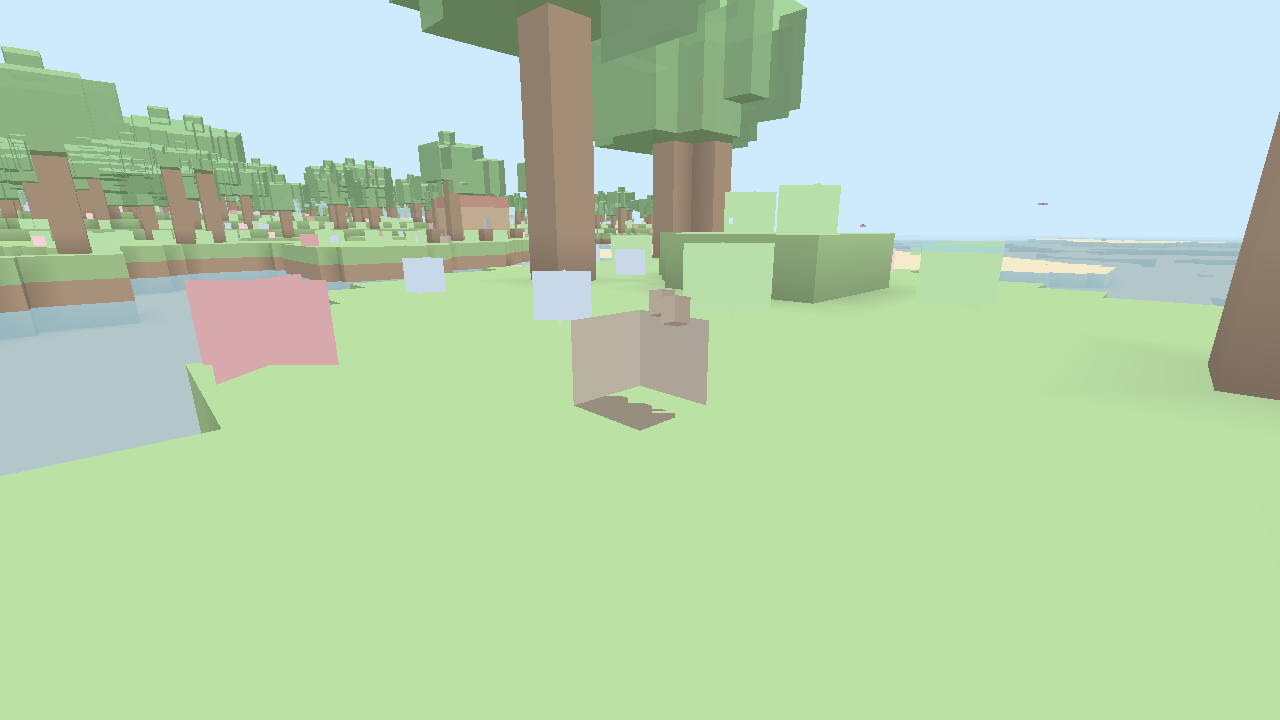
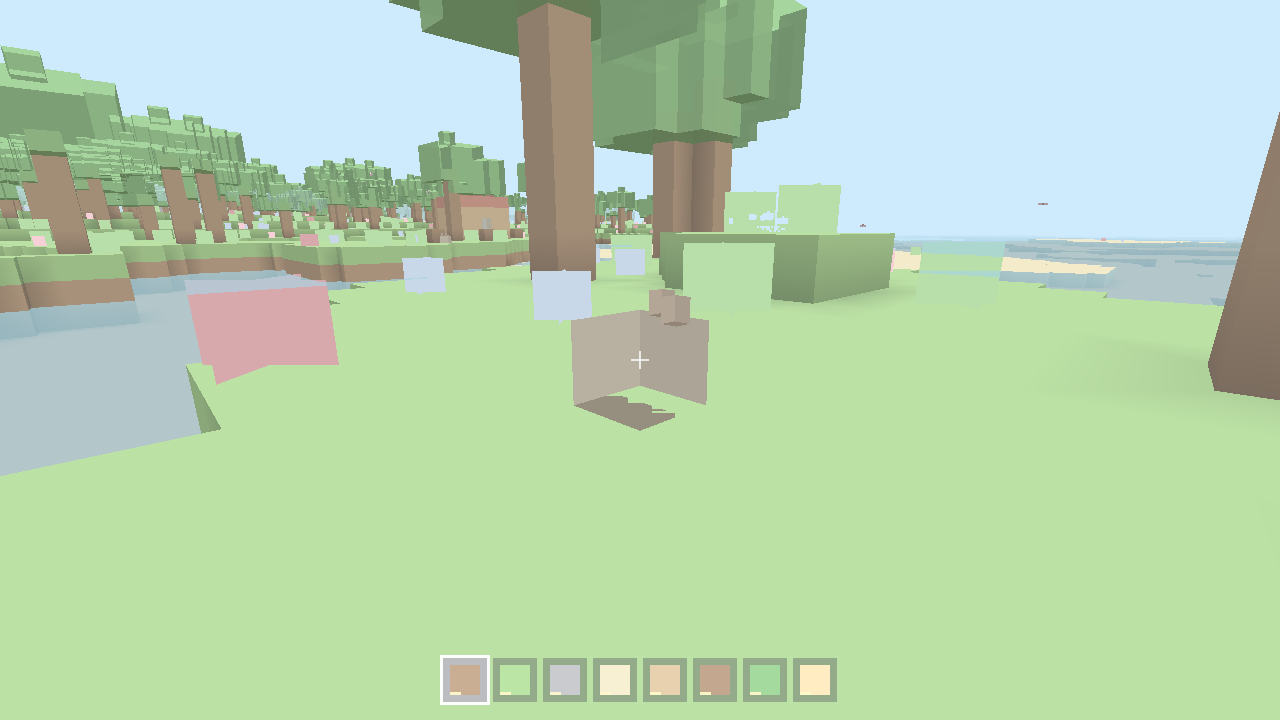
Stage 10: HUD overlay (crosshair + hotbar)
- New flat 2D UI pass: an alpha-blended, depth-independent pipeline drawing
  coloured quads in NDC, rendered on top of the world in both the windowed game
  and the headless screenshots.
- HUD shows a centred crosshair and a bottom hotbar of 8 slots with each block's
  colour swatch, a white frame on the selected slot, and a count pip bar.
- Window loop and screenshot tool rebuild the HUD each frame from the live
  inventory; cat starts screenshots with a few of each block.

UI geometry test (quad triangulation + NDC bounds) under the capture feature.

diff --git a/crates/game/src/render/scene.rs b/crates/game/src/render/scene.rs
@@ -58,6 +58,8 @@ pub struct GpuScene {
     chunks: AHashMap<ChunkPos, GpuChunk>,
     /// Dynamic geometry for ambient critters, rebuilt each frame.
     entities: Option<GpuLayer>,
+    ui_pipeline: wgpu::RenderPipeline,
+    ui_buffer: Option<(wgpu::Buffer, u32)>,
     pub render_distance: f32,
 }
 
@@ -103,6 +105,7 @@ impl GpuScene {
         });
         let opaque_pipeline = make_pipeline(&device, &layout, &shader, format, false);
         let transparent_pipeline = make_pipeline(&device, &layout, &shader, format, true);
+        let ui_pipeline = make_ui_pipeline(&device, format);
 
         Self {
             device,
@@ -111,10 +114,28 @@ impl GpuScene {
             globals_bind_group,
             opaque_pipeline,
             transparent_pipeline,
+            ui_pipeline,
+            ui_buffer: None,
             chunks: AHashMap::new(),
             entities: None,
             render_distance: 16.0 * CHUNK_EDGE,
         }
+    }
+
+    /// Replace the HUD overlay geometry for this frame.
+    pub fn upload_ui(&mut self, verts: &[super::ui::UiVertex]) {
+        if verts.is_empty() {
+            self.ui_buffer = None;
+            return;
+        }
+        let buffer = self
+            .device
+            .create_buffer_init(&wgpu::util::BufferInitDescriptor {
+                label: Some("ui-vertices"),
+                contents: bytemuck::cast_slice(verts),
+                usage: wgpu::BufferUsages::VERTEX,
+            });
+        self.ui_buffer = Some((buffer, verts.len() as u32));
     }
 
     /// Replace the per-frame entity geometry (world-space vertices).
@@ -278,6 +299,13 @@ impl GpuScene {
                 }
             }
         }
+
+        // HUD overlay last, on top of everything (depth-independent).
+        if let Some((buf, count)) = &self.ui_buffer {
+            pass.set_pipeline(&self.ui_pipeline);
+            pass.set_vertex_buffer(0, buf.slice(..));
+            pass.draw(0..*count, 0..1);
+        }
     }
 }
 
@@ -379,6 +407,73 @@ fn make_pipeline(
             format: DEPTH_FORMAT,
             depth_write_enabled: !transparent,
             depth_compare: wgpu::CompareFunction::Less,
+            stencil: wgpu::StencilState::default(),
+            bias: wgpu::DepthBiasState::default(),
+        }),
+        multisample: wgpu::MultisampleState::default(),
+        multiview: None,
+        cache: None,
+    })
+}
+
+/// Pipeline for the flat 2D HUD overlay: alpha-blended coloured quads in NDC,
+/// always drawn on top (depth test Always, no depth write).
+fn make_ui_pipeline(
+    device: &wgpu::Device,
+    format: wgpu::TextureFormat,
+) -> wgpu::RenderPipeline {
+    let shader = device.create_shader_module(wgpu::ShaderModuleDescriptor {
+        label: Some("ui-shader"),
+        source: wgpu::ShaderSource::Wgsl(include_str!("ui.wgsl").into()),
+    });
+    let layout = device.create_pipeline_layout(&wgpu::PipelineLayoutDescriptor {
+        label: Some("ui-layout"),
+        bind_group_layouts: &[],
+        push_constant_ranges: &[],
+    });
+    let vertex_layout = wgpu::VertexBufferLayout {
+        array_stride: std::mem::size_of::<super::ui::UiVertex>() as u64,
+        step_mode: wgpu::VertexStepMode::Vertex,
+        attributes: &[
+            wgpu::VertexAttribute {
+                offset: 0,
+                shader_location: 0,
+                format: wgpu::VertexFormat::Float32x2,
+            },
+            wgpu::VertexAttribute {
+                offset: 8,
+                shader_location: 1,
+                format: wgpu::VertexFormat::Float32x4,
+            },
+        ],
+    };
+    device.create_render_pipeline(&wgpu::RenderPipelineDescriptor {
+        label: Some("ui-pipeline"),
+        layout: Some(&layout),
+        vertex: wgpu::VertexState {
+            module: &shader,
+            entry_point: "vs_main",
+            buffers: &[vertex_layout],
+            compilation_options: Default::default(),
+        },
+        fragment: Some(wgpu::FragmentState {
+            module: &shader,
+            entry_point: "fs_main",
+            targets: &[Some(wgpu::ColorTargetState {
+                format,
+                blend: Some(wgpu::BlendState::ALPHA_BLENDING),
+                write_mask: wgpu::ColorWrites::ALL,
+            })],
+            compilation_options: Default::default(),
+        }),
+        primitive: wgpu::PrimitiveState {
+            topology: wgpu::PrimitiveTopology::TriangleList,
+            ..Default::default()
+        },
+        depth_stencil: Some(wgpu::DepthStencilState {
+            format: DEPTH_FORMAT,
+            depth_write_enabled: false,
+            depth_compare: wgpu::CompareFunction::Always,
             stencil: wgpu::StencilState::default(),
             bias: wgpu::DepthBiasState::default(),
         }),

diff --git a/crates/game/src/render/ui.rs b/crates/game/src/render/ui.rs
@@ -1,0 +1,132 @@
+//! HUD geometry: builds the crosshair and hotbar as flat coloured quads in
+//! normalised device coordinates, ready for the UI pipeline. Kept renderer-
+//! agnostic (just produces vertices) so both the window and the headless
+//! capturer show the same interface.
+
+use bytemuck::{Pod, Zeroable};
+use pixelcraft_core::block::BlockRegistry;
+
+use crate::inventory::{Inventory, HOTBAR};
+
+#[repr(C)]
+#[derive(Clone, Copy, Pod, Zeroable)]
+pub struct UiVertex {
+    pub pos: [f32; 2],
+    pub color: [f32; 4],
+}
+
+/// Accumulates HUD quads in pixel space, converting to NDC on push.
+struct UiBuilder {
+    verts: Vec<UiVertex>,
+    w: f32,
+    h: f32,
+}
+
+impl UiBuilder {
+    fn new(w: u32, h: u32) -> Self {
+        Self {
+            verts: Vec::new(),
+            w: w.max(1) as f32,
+            h: h.max(1) as f32,
+        }
+    }
+
+    /// Push an axis-aligned rectangle given top-left pixel origin and size.
+    fn rect(&mut self, x: f32, y: f32, w: f32, h: f32, color: [f32; 4]) {
+        let to_ndc = |px: f32, py: f32| [px / self.w * 2.0 - 1.0, 1.0 - py / self.h * 2.0];
+        let p0 = to_ndc(x, y);
+        let p1 = to_ndc(x + w, y);
+        let p2 = to_ndc(x + w, y + h);
+        let p3 = to_ndc(x, y + h);
+        for p in [p0, p1, p2, p0, p2, p3] {
+            self.verts.push(UiVertex { pos: p, color });
+        }
+    }
+}
+
+/// Build the full HUD for the current frame.
+pub fn build_hud(
+    screen_w: u32,
+    screen_h: u32,
+    inventory: &Inventory,
+    registry: &BlockRegistry,
+) -> Vec<UiVertex> {
+    let mut b = UiBuilder::new(screen_w, screen_h);
+    let (w, h) = (b.w, b.h);
+
+    // --- Crosshair: a soft white plus at the screen centre ---------------
+    let cx = w * 0.5;
+    let cy = h * 0.5;
+    let arm = 9.0;
+    let thick = 2.0;
+    let cross = [1.0, 1.0, 1.0, 0.7];
+    b.rect(cx - arm, cy - thick * 0.5, arm * 2.0, thick, cross);
+    b.rect(cx - thick * 0.5, cy - arm, thick, arm * 2.0, cross);
+
+    // --- Hotbar: a centred row of slots near the bottom ------------------
+    let slots = HOTBAR.len();
+    let slot = 44.0;
+    let gap = 6.0;
+    let total = slots as f32 * slot + (slots as f32 - 1.0) * gap;
+    let start_x = (w - total) * 0.5;
+    let y = h - slot - 18.0;
+
+    for (i, &id) in HOTBAR.iter().enumerate() {
+        let sx = start_x + i as f32 * (slot + gap);
+        let selected = i == inventory.selected;
+
+        // Slot backing (selected slot gets a bright frame).
+        if selected {
+            b.rect(sx - 3.0, y - 3.0, slot + 6.0, slot + 6.0, [1.0, 1.0, 1.0, 0.95]);
+        }
+        b.rect(sx, y, slot, slot, [0.12, 0.12, 0.16, 0.55]);
+
+        // Block colour swatch inset in the slot.
+        let c = registry.get(id).color;
+        let swatch = [
+            c.r as f32 / 255.0,
+            c.g as f32 / 255.0,
+            c.b as f32 / 255.0,
+            1.0,
+        ];
+        let pad = 7.0;
+        b.rect(sx + pad, y + pad, slot - pad * 2.0, slot - pad * 2.0, swatch);
+
+        // Count pips: a tiny bar whose width reflects how many are held
+        // (cheap stand-in for a number until text rendering lands).
+        let count = inventory.count(id).min(64);
+        if count > 0 {
+            let frac = count as f32 / 64.0;
+            b.rect(
+                sx + pad,
+                y + slot - pad - 3.0,
+                (slot - pad * 2.0) * frac,
+                3.0,
+                [1.0, 0.95, 0.6, 0.9],
+            );
+        }
+    }
+
+    b.verts
+}
+
+#[cfg(test)]
+mod tests {
+    use super::*;
+
+    #[test]
+    fn hud_builds_triangulated_quads() {
+        let reg = BlockRegistry::with_defaults();
+        let mut inv = Inventory::new(reg.len());
+        inv.add(HOTBAR[0], 32);
+        inv.select(2);
+        let verts = build_hud(1280, 720, &inv, &reg);
+        assert!(!verts.is_empty());
+        assert_eq!(verts.len() % 6, 0, "quads must be 2 triangles (6 verts) each");
+        // All NDC positions stay within the clip volume.
+        for v in &verts {
+            assert!(v.pos[0] >= -1.0 && v.pos[0] <= 1.0);
+            assert!(v.pos[1] >= -1.0 && v.pos[1] <= 1.0);
+        }
+    }
+}

diff --git a/crates/game/src/render/window.rs b/crates/game/src/render/window.rs
@@ -87,6 +87,16 @@ impl Renderer {
         self.scene.upload_entities(&v, &i);
     }
 
+    /// Rebuild the HUD overlay (crosshair + hotbar) for the current inventory.
+    pub fn update_hud(
+        &mut self,
+        inventory: &crate::inventory::Inventory,
+        registry: &pixelcraft_core::block::BlockRegistry,
+    ) {
+        let verts = super::ui::build_hud(self.config.width, self.config.height, inventory, registry);
+        self.scene.upload_ui(&verts);
+    }
+
     pub fn render(&mut self, camera: &Camera, env: &Environment) -> Result<(), wgpu::SurfaceError> {
         let frame = self.surface.get_current_texture()?;
         let view = frame

diff --git a/crates/game/src/render/capture.rs b/crates/game/src/render/capture.rs
@@ -100,6 +100,16 @@ impl Headless {
         self.scene.upload_entities(&v, &i);
     }
 
+    /// Rebuild the HUD overlay (crosshair + hotbar) for the current inventory.
+    pub fn update_hud(
+        &mut self,
+        inventory: &crate::inventory::Inventory,
+        registry: &pixelcraft_core::block::BlockRegistry,
+    ) {
+        let verts = super::ui::build_hud(self.width, self.height, inventory, registry);
+        self.scene.upload_ui(&verts);
+    }
+
     /// Render one frame and save it as a PNG at `path`.
     pub fn capture(&self, camera: &Camera, env: &Environment, path: impl AsRef<Path>) {
         self.scene.update_globals(camera, env);

diff --git a/crates/game/src/bin/screenshot.rs b/crates/game/src/bin/screenshot.rs
@@ -66,9 +66,15 @@ fn main() {
 
     println!("Initialising offscreen renderer (lavapipe)…");
     let mut renderer = Headless::new(WIDTH, HEIGHT);
+    // Give the cat a few starter blocks so the hotbar shows nicely.
+    for &id in &pixelcraft_game::HOTBAR {
+        game.inventory.add(id, 24);
+    }
+
     renderer.set_render_distance(render_distance);
     renderer.sync_meshes(&game.manager);
     renderer.update_entities(&game.entities);
+    renderer.update_hud(&game.inventory, &game.manager.registry);
     println!(
         "GPU chunk meshes: {} | critters: {}",
         renderer.gpu_chunk_count(),

diff --git a/crates/game/src/render/app.rs b/crates/game/src/render/app.rs
@@ -229,6 +229,8 @@ impl State {
         // Push fresh/edited chunk meshes and the ambient critters to the GPU.
         self.renderer.sync_meshes(&self.game.manager);
         self.renderer.update_entities(&self.game.entities);
+        self.renderer
+            .update_hud(&self.game.inventory, &self.game.manager.registry);
 
         // Camera follows the eye.
         let camera = Camera::new(eye, look, self.renderer.aspect());

diff --git a/crates/game/src/render/mod.rs b/crates/game/src/render/mod.rs
@@ -7,6 +7,7 @@
 //!   used to screenshot the game in environments without a display.
 
 mod scene;
+mod ui;
 pub use scene::CHUNK_EDGE;
 
 #[cfg(feature = "render")]
